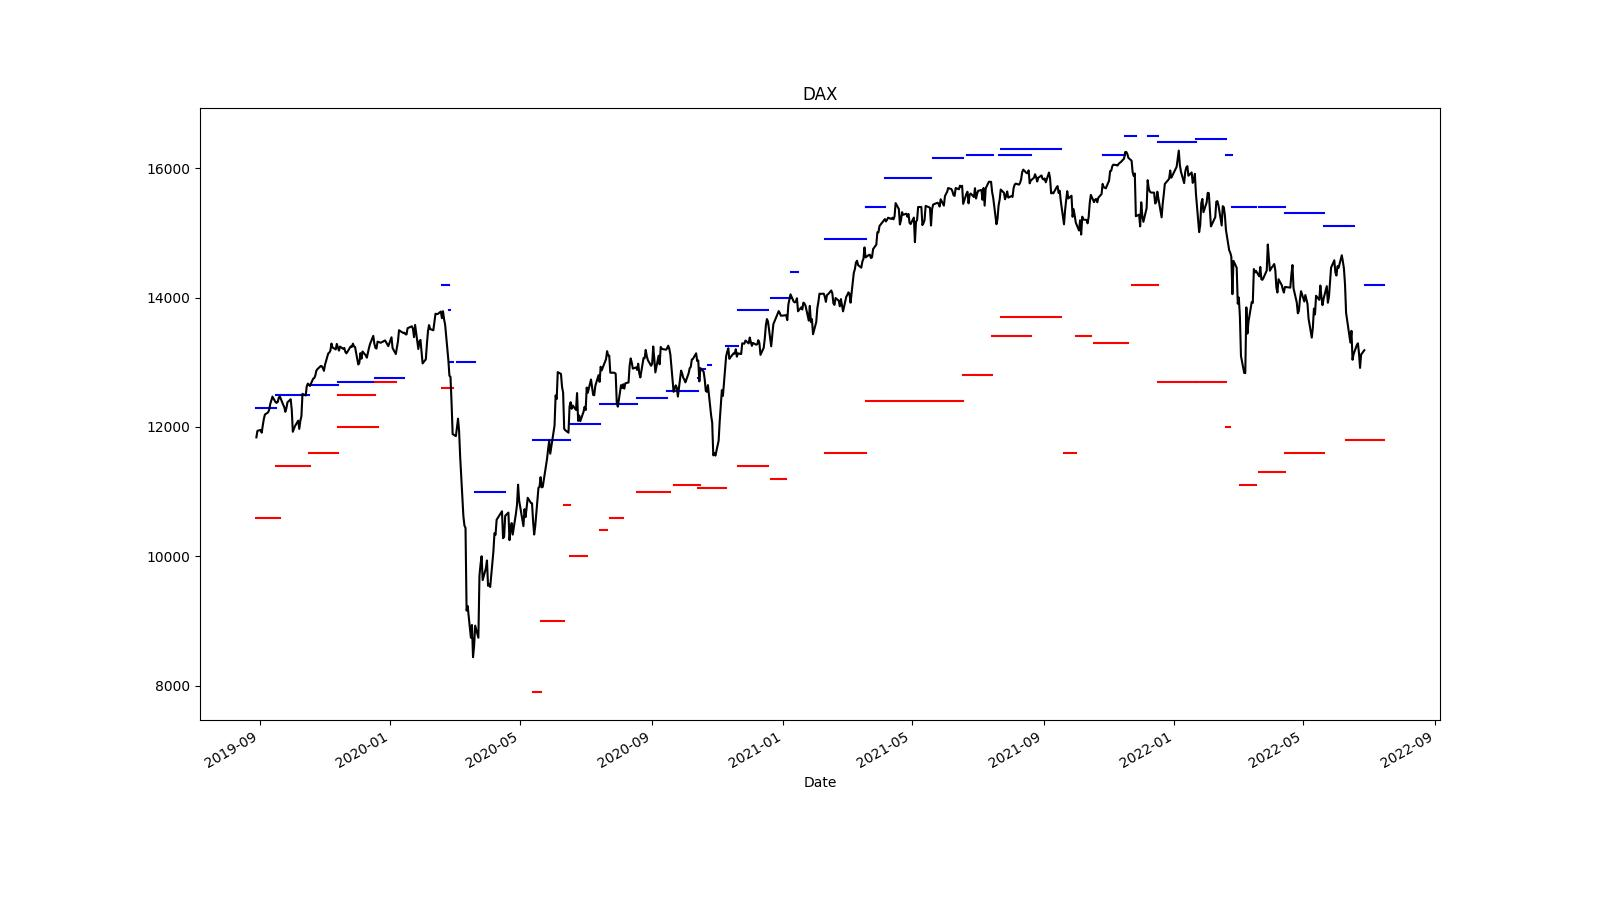
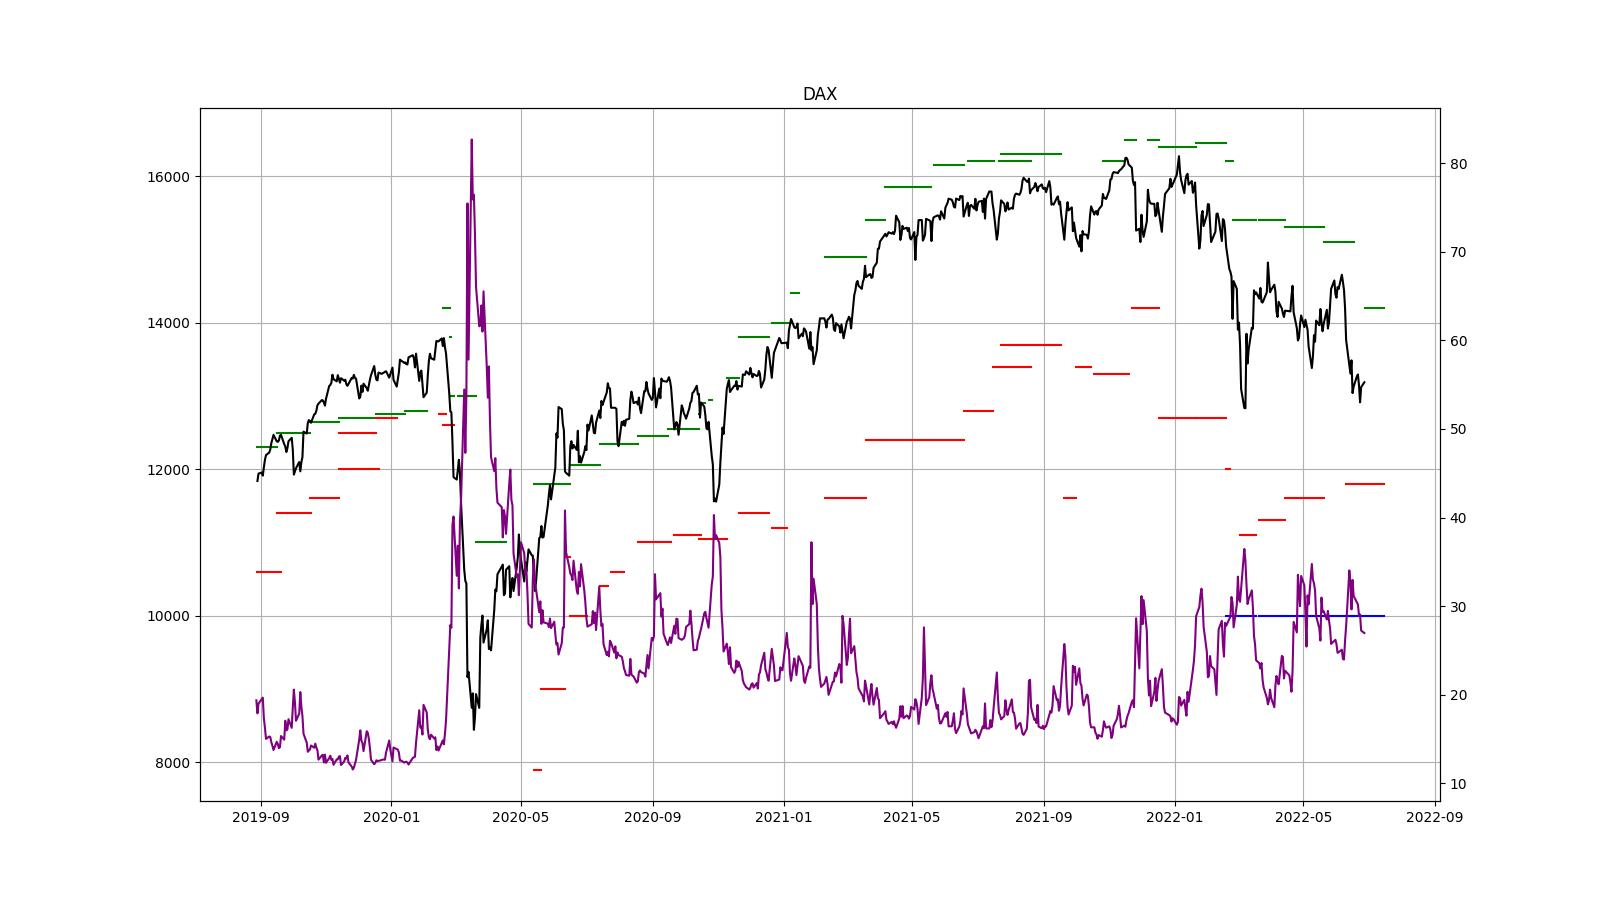
vola added

diff --git a/vis.py b/vis.py
@@ -14,22 +14,33 @@ buy_price = [options["Kurs EK"][i] for i in range(len(options["Kurs EK"]))]
 option_name = [options["Option"][i] for i in range(len(options["Option"]))]
 
 dax = yf.download("^GDAXI", start=sell_date[0], end=sell_date[len(sell_date)-1])
+vola = yf.download("^VIX", start=sell_date[0], end=sell_date[len(sell_date)-1])
 
-plt.figure(figsize=(16, 9))
+fig, ax1 = plt.subplots(1, 1, figsize=(16, 9))
+
+ax1.grid()
 
 for i in range(length):
     y = int(option_name[i][1:])
     color = option_name[i][0]
     if color == "C":
-        color = "blue"
+        color = "green"
     else:
         color = "red"
     x1, x2 = sell_date[i], buy_date[i]
-    x = [x1, x2]
-    y = [y, y]
+
     if x1 < x2:
-        plt.plot(x, y, color)
+        x = [x1, x2]
+        y = [y, y]
+        ax1.plot(x, y, color)
+    elif x2 < x1:
+        print("safety")
+        x = [x2, x1]
+        y = [y, y]
+        ax1.plot(x, y, "blue")
 
 plt.title("DAX")
-dax["Adj Close"].plot(color="black")
-plt.savefig("test.jpg")
+ax1.plot(dax["Adj Close"], color="black")
+ax2 = ax1.twinx()
+ax2.plot(vola["Adj Close"], color="purple")
+plt.savefig("ich.jpg")
